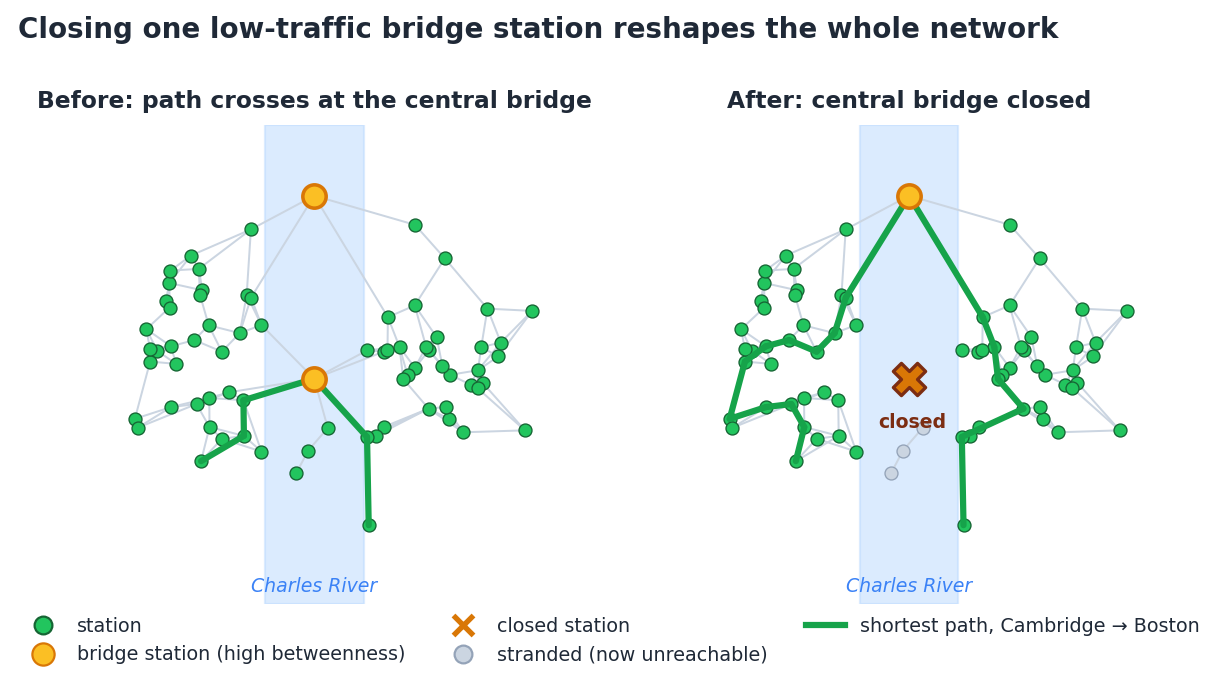
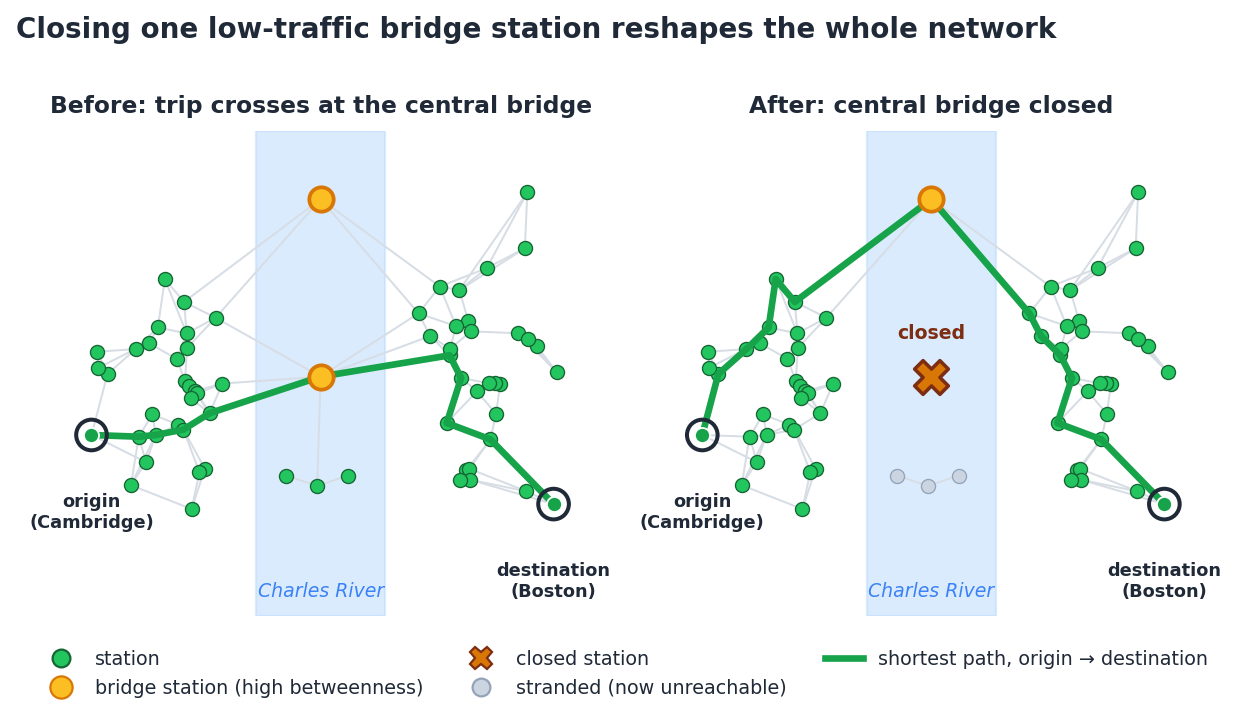
Redraw sample report network figure (Fig 2)
Clearer cross-river network: wider cluster separation, a labelled
origin (deep west Cambridge) and destination (deep east Boston) so the
trip visibly traverses the whole network and crosses the river exactly
once at the central bridge. After the closure the path arcs over the
north bridge and a pocket of stations is stranded. Rebuilt the PDF.

diff --git a/scripts/build_sample_report_figures.py b/scripts/build_sample_report_figures.py
@@ -96,43 +96,38 @@ def figure_one():
 # ---------------------------------------------------------------------------
 def _build_network():
     """Two geographic clusters (Cambridge / Boston) joined only by bridges."""
-    rng = np.random.default_rng(5470)
+    rng = np.random.default_rng(11)
     G = nx.Graph()
     pos = {}
 
-    def blob(prefix, cx, cy, n, spread=0.62):
+    def blob(prefix, cx, cy, n, sx=0.55, sy=1.05, clamp=1.05):
         ids = []
         for i in range(n):
             nid = f"{prefix}{i}"
-            px = cx + rng.normal(0, spread)
-            # keep clusters off the river channel (|x| > 0.7)
-            if prefix == "C":
-                px = min(px, -0.75)
-            else:
-                px = max(px, 0.75)
-            py = cy + rng.normal(0, 0.85)
+            px = cx + rng.normal(0, sx)
+            px = min(px, -clamp) if prefix == "C" else max(px, clamp)
+            py = cy + rng.normal(0, sy)
             pos[nid] = (px, py)
             G.add_node(nid)
             ids.append(nid)
         return ids
 
-    cambridge = blob("C", -1.7, 0.0, 34)
-    boston = blob("B", 1.7, 0.0, 34)
+    cambridge = blob("C", -2.3, 0.1, 30)
+    boston = blob("B", 2.3, 0.1, 30)
 
-    # intra-cluster edges by proximity (geometric)
-    def connect(ids, r):
+    # intra-cluster edges by proximity (k nearest within the cluster only)
+    def connect(ids, k=3):
         P = np.array([pos[i] for i in ids])
         for a in range(len(ids)):
             d = np.hypot(P[:, 0] - P[a, 0], P[:, 1] - P[a, 1])
-            for b in np.argsort(d)[1:4]:        # ~3 nearest neighbours
-                if d[b] < r:
-                    G.add_edge(ids[a], ids[b])
+            for b in np.argsort(d)[1:k + 1]:
+                G.add_edge(ids[a], ids[b])
+
     def force_connect(ids):
         """Guarantee the cluster is one connected component (MST-style stitch)."""
         comps = list(nx.connected_components(G.subgraph(ids)))
         while len(comps) > 1:
-            c0 = list(comps[0])
-            rest = list(set(ids) - set(comps[0]))
+            c0, rest = list(comps[0]), list(set(ids) - set(comps[0]))
             best, bestd = None, 1e9
             for a in c0:
                 for b in rest:
@@ -142,15 +137,16 @@ def _build_network():
             G.add_edge(*best)
             comps = list(nx.connected_components(G.subgraph(ids)))
 
-    connect(cambridge, 1.1)
-    connect(boston, 1.1)
+    connect(cambridge)
+    connect(boston)
     force_connect(cambridge)
     force_connect(boston)
 
-    # two bridge stations spanning the river: b1 central (short crossing),
-    # b2 north (long detour)
-    pos["b1"] = (0.0, -0.2); G.add_node("b1")
-    pos["b2"] = (0.0, 2.4);  G.add_node("b2")
+    # Two bridge stations are the ONLY river crossings:
+    #   b1 — central, the short everyday crossing
+    #   b2 — north, a long way around
+    pos["b1"] = (0.0, 0.1);  G.add_node("b1")
+    pos["b2"] = (0.0, 2.7);  G.add_node("b2")
 
     def nearest(ids, point, k):
         P = np.array([pos[i] for i in ids])
@@ -162,21 +158,21 @@ def _build_network():
     for nb in nearest(cambridge, pos["b2"], 2) + nearest(boston, pos["b2"], 2):
         G.add_edge("b2", nb)
 
-    # a small pocket that reaches the rest ONLY through b1 -> stranded when cut
+    # A small pocket of stations that reach the rest ONLY through b1, so they
+    # are stranded the moment it closes.
     pocket = []
     for i in range(3):
         nid = f"P{i}"
-        pos[nid] = (-0.15 + rng.normal(0, 0.12), -0.9 - 0.32 * i)
+        pos[nid] = (-0.05 + 0.45 * (i - 1), -1.35 - 0.15 * (i % 2))
         G.add_node(nid); pocket.append(nid)
-    G.add_edge("b1", "P0"); G.add_edge("P0", "P1"); G.add_edge("P1", "P2")
+    G.add_edge("b1", "P1"); G.add_edge("P1", "P0"); G.add_edge("P1", "P2")
 
     return G, pos, cambridge, boston, pocket
 
 
-def _draw(ax, G, pos, path_edges, removed, stranded, title):
-    # river channel
-    ax.axvspan(-0.7, 0.7, color=RIVER, alpha=0.55, zorder=0)
-    ax.text(0.0, -3.15, "Charles River", ha="center", va="center",
+def _draw(ax, G, pos, path_edges, removed, stranded, src, dst, title):
+    ax.axvspan(-0.95, 0.95, color=RIVER, alpha=0.55, zorder=0)
+    ax.text(0.0, -3.05, "Charles River", ha="center", va="center",
             fontsize=8.5, style="italic", color="#3b82f6", zorder=1)
 
     pe = set(map(frozenset, path_edges))
@@ -185,75 +181,79 @@ def _draw(ax, G, pos, path_edges, removed, stranded, title):
             continue
         on_path = frozenset((u, v)) in pe
         ax.plot([pos[u][0], pos[v][0]], [pos[u][1], pos[v][1]],
-                color=(GREEN_LINE if on_path else "#cbd5e1"),
-                lw=(2.8 if on_path else 0.9),
+                color=(GREEN_LINE if on_path else "#d7dde4"),
+                lw=(3.0 if on_path else 0.9),
                 zorder=(4 if on_path else 2), solid_capstyle="round")
 
     for n in G.nodes():
         x, y = pos[n]
-        if n in removed:
-            ax.scatter(x, y, s=200, marker="X", color=AMBER, edgecolor="#7c2d12",
-                       linewidths=1.4, zorder=6)
-            continue
         if n in ("b1", "b2"):
-            ax.scatter(x, y, s=110, color=AMBER_FILL, edgecolor=AMBER,
-                       linewidths=1.6, zorder=5)
+            ax.scatter(x, y, s=120, color=AMBER_FILL, edgecolor=AMBER,
+                       linewidths=1.7, zorder=5)
         elif n in stranded:
-            ax.scatter(x, y, s=34, color=GREY_LIGHT, edgecolor="#94a3b8",
+            ax.scatter(x, y, s=40, color=GREY_LIGHT, edgecolor="#94a3b8",
                        linewidths=0.6, zorder=3)
         else:
-            ax.scatter(x, y, s=34, color=GREEN, edgecolor=GREEN_DARK,
+            ax.scatter(x, y, s=40, color=GREEN, edgecolor=GREEN_DARK,
                        linewidths=0.6, zorder=3)
 
-    # removed nodes are no longer in G, so draw them from stored positions
+    # origin / destination of the trip, ringed and labelled
+    for node, label, dx in ((src, "origin\n(Cambridge)", 0), (dst, "destination\n(Boston)", 0)):
+        x, y = pos[node]
+        ax.scatter(x, y, s=190, facecolor="none", edgecolor=INK,
+                   linewidths=1.8, zorder=8)
+        ax.scatter(x, y, s=46, color=GREEN_LINE, edgecolor="white",
+                   linewidths=0.8, zorder=9)
+        ax.annotate(label, xy=(x, y), xytext=(x + dx, y - 0.85), ha="center",
+                    va="top", fontsize=8, fontweight="bold", color=INK, zorder=9)
+
+    # closed nodes are no longer in G; draw them from stored positions
     for n in removed:
         x, y = pos[n]
-        ax.scatter(x, y, s=210, marker="X", color=AMBER, edgecolor="#7c2d12",
-                   linewidths=1.5, zorder=7)
-        ax.annotate("closed", xy=(x, y), xytext=(x + 0.05, y - 0.7),
-                    ha="center", fontsize=8.5, color="#7c2d12", fontweight="bold")
+        ax.scatter(x, y, s=230, marker="X", color=AMBER, edgecolor="#7c2d12",
+                   linewidths=1.6, zorder=10)
+        ax.annotate("closed", xy=(x, y), xytext=(x, y + 0.55), ha="center",
+                    fontsize=8.5, color="#7c2d12", fontweight="bold", zorder=10)
 
     ax.set_title(title, fontsize=10.5, fontweight="bold", pad=8, loc="center")
-    ax.set_xlim(-3.4, 3.4); ax.set_ylim(-3.4, 3.4)
+    ax.set_xlim(-3.7, 3.7); ax.set_ylim(-3.4, 3.7)
     ax.set_aspect("equal"); ax.axis("off")
 
 
 def figure_two():
     G, pos, camb, bost, pocket = _build_network()
-    src = min(camb, key=lambda n: pos[n][1])      # deep south Cambridge
-    dst = min(bost, key=lambda n: pos[n][1])       # deep south Boston
+    # origin deep in west Cambridge, destination deep in east Boston, so the
+    # trip clearly traverses the whole network and crosses the river once.
+    src = min(camb, key=lambda n: pos[n][0] + 0.25 * pos[n][1])
+    dst = max(bost, key=lambda n: pos[n][0] - 0.25 * pos[n][1])
 
     before = nx.shortest_path(G, src, dst)
     before_edges = list(zip(before[:-1], before[1:]))
 
     G2 = G.copy(); G2.remove_node("b1")
-    comp = nx.node_connected_component(G2, src)
-    stranded = set(G2.nodes()) - comp                 # now unreachable from src
-    try:
-        after = nx.shortest_path(G2, src, dst)
-        after_edges = list(zip(after[:-1], after[1:]))
-    except nx.NetworkXNoPath:
-        after_edges = []
+    stranded = set(G2.nodes()) - nx.node_connected_component(G2, src)
+    after_edges = (list(zip(p[:-1], p[1:]))
+                   if (p := (nx.shortest_path(G2, src, dst)
+                             if nx.has_path(G2, src, dst) else None)) else [])
 
-    fig, (axL, axR) = plt.subplots(1, 2, figsize=(7.6, 4.0))
-    fig.subplots_adjust(wspace=0.10)
+    fig, (axL, axR) = plt.subplots(1, 2, figsize=(7.8, 4.2))
+    fig.subplots_adjust(wspace=0.08)
     _draw(axL, G, pos, before_edges, removed=set(), stranded=set(),
-          title="Before: path crosses at the central bridge")
+          src=src, dst=dst, title="Before: trip crosses at the central bridge")
     _draw(axR, G2, pos, after_edges, removed={"b1"}, stranded=stranded,
-          title="After: central bridge closed")
+          src=src, dst=dst, title="After: central bridge closed")
 
-    # shared legend
     from matplotlib.lines import Line2D
     handles = [
         Line2D([0], [0], marker="o", color="w", markerfacecolor=GREEN,
                markeredgecolor=GREEN_DARK, markersize=8, label="station"),
         Line2D([0], [0], marker="o", color="w", markerfacecolor=AMBER_FILL,
                markeredgecolor=AMBER, markersize=10, label="bridge station (high betweenness)"),
-        Line2D([0], [0], marker="x", color=AMBER, markersize=9, lw=0,
-               markeredgewidth=2.4, label="closed station"),
+        Line2D([0], [0], marker="X", color=AMBER, markersize=10, lw=0,
+               markeredgecolor="#7c2d12", label="closed station"),
         Line2D([0], [0], marker="o", color="w", markerfacecolor=GREY_LIGHT,
                markeredgecolor="#94a3b8", markersize=8, label="stranded (now unreachable)"),
-        Line2D([0], [0], color=GREEN_LINE, lw=2.8, label="shortest path, Cambridge → Boston"),
+        Line2D([0], [0], color=GREEN_LINE, lw=3.0, label="shortest path, origin → destination"),
     ]
     fig.legend(handles=handles, loc="lower center", ncol=3, frameon=False,
                fontsize=8.6, bbox_to_anchor=(0.5, -0.02))